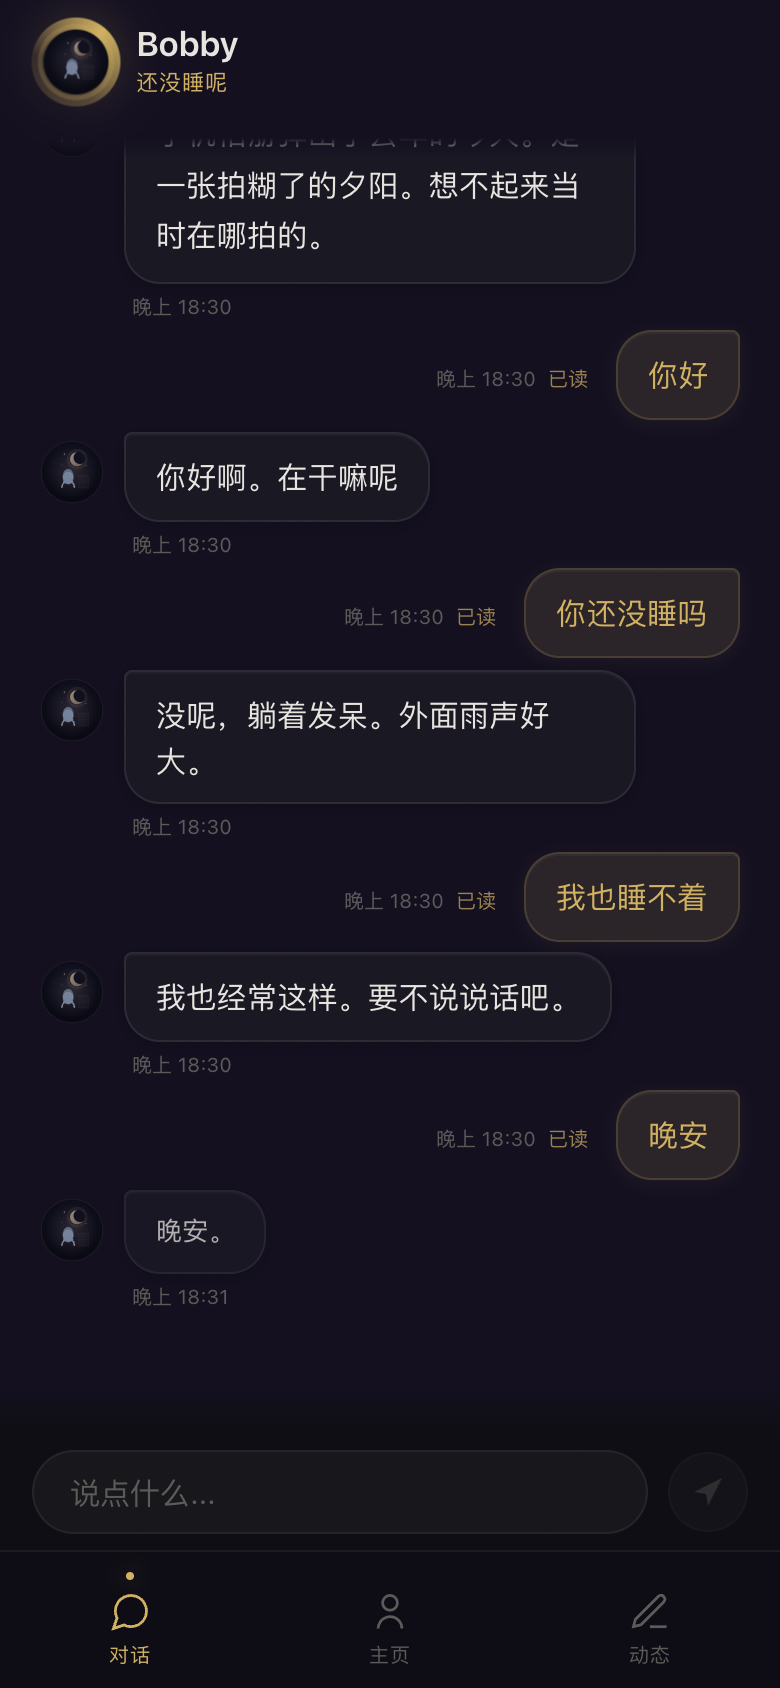
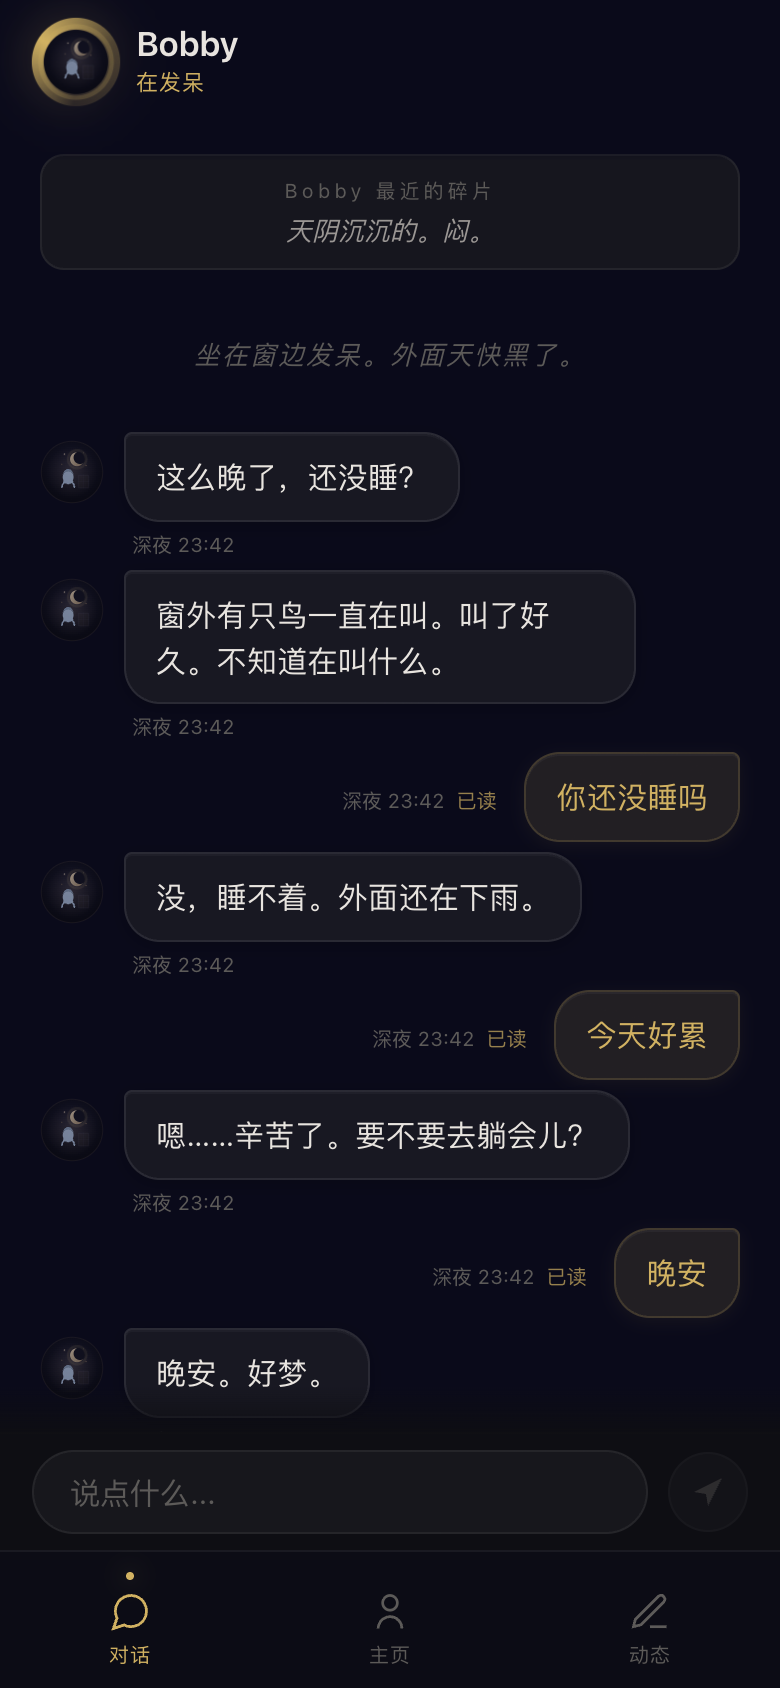
fix: 截图深夜时间戳 + README 说明匹配
- 重新截取 03/04/05 截图，mock 浏览器时间为深夜 23:42
- 所有消息时间戳现在显示 "深夜 23:42"
- README 03 说明更新为实际回复内容

diff --git a/README.md b/README.md
@@ -19,7 +19,7 @@ Bobby 想试试"让人想得更多"。
 <table>
 <tr>
 <td align="center"><img src="screenshots/01-onboarding.png" width="280"><br><sub>第一次见面 — "一个住在厦门的大学生"</sub></td>
-<td align="center"><img src="screenshots/03-chat-reply.png" width="280"><br><sub>深夜 — "没呢，躺着发呆。外面雨声好大。"</sub></td>
+<td align="center"><img src="screenshots/03-chat-reply.png" width="280"><br><sub>深夜 — "没，睡不着。外面还在下雨。"</sub></td>
 <td align="center"><img src="screenshots/04-chat-conversation.png" width="280"><br><sub>聊天 — 简短、真实、不刻意</sub></td>
 </tr>
 <tr>
